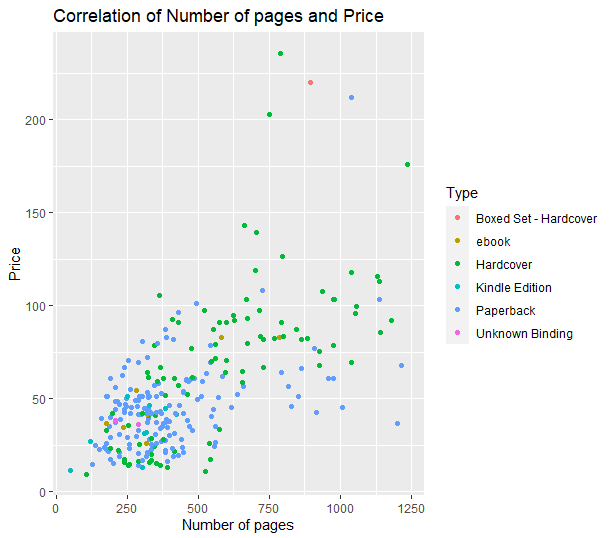
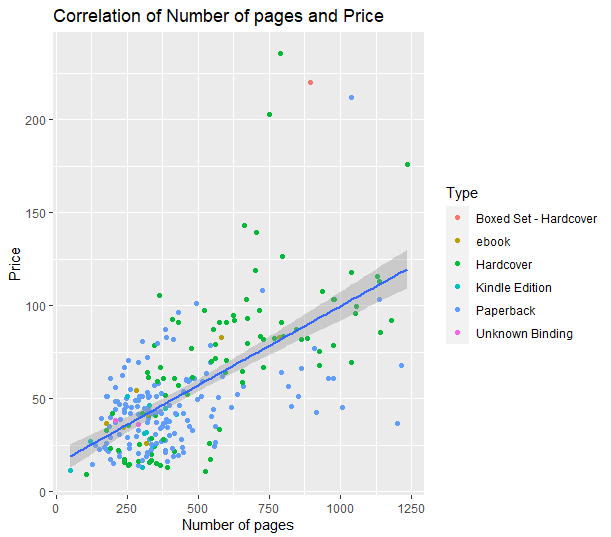
Add files via upload

diff --git a/assignments/HW04_63130500046/HW04_63130500046.md b/assignments/HW04_63130500046/HW04_63130500046.md
@@ -1,8 +1,7 @@
 # R Assignment 4
 Created By Thanakrit Paithun (63130500046)
 
-Choose Dataset: Top 270 Computer Science / Programing Books (Data from Thomas Konstantin, [Kaggle](https://www.kaggle.com/thomaskonstantin/top-270-rated-computer-science-programing-books)) >> [Using CSV](https://raw.githubusercontent.com/safesit23/INT214-Statistics/main/datasets/prog_book.csv)
-
+Choose Dataset: Top 270 Computer Science / Programing Books (Data from Thomas Konstantin, Kaggle) >> Using CSV
 
 ## Outlines
 
@@ -104,6 +103,8 @@ cat("Book title with the nearest price to median from left side is:" ,
 Scatter1 <- CSBooks %>% filter(Number_Of_Pages < 1500) %>% 
             ggplot(aes(x = Number_Of_Pages , y = Price)) +
             geom_point(aes(color = Type)) + xlab("Number of pages") + ggtitle("Correlation of Number of pages and Price")
+            
+Scatter1+geom_smooth(method="lm")
 
 ```
 Result:
